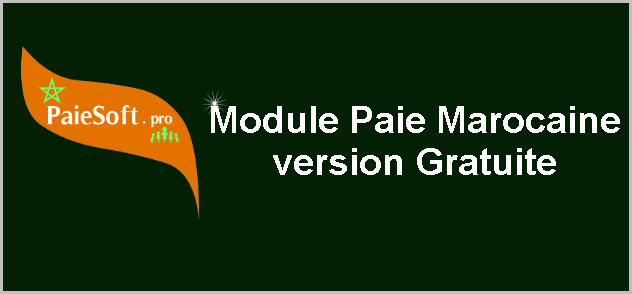
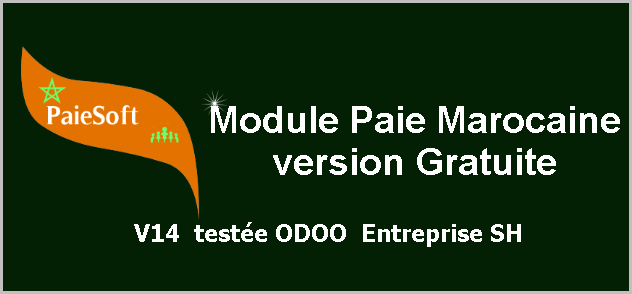
Add files via upload
new files

Changed region(s): [[0.2104, 0.7653, 0.8418, 0.8265], [0.2405, 0.3673, 0.2706, 0.4286]]

diff --git a/l10n_ma_hr_payroll_10Basic/static/description/index.html b/l10n_ma_hr_payroll_10Basic/static/description/index.html
@@ -1,7 +1,7 @@
 <section class="oe_container">
     <div class="oe_row oe_spaced">
         <h2 class="oe_slogan">Paie Maroc: Traitement de la paie marocaine sous Odoo </h2>
-        <h3 class="oe_slogan">Solution compl&eacute;te avec les etats de t&eacute;l&eacute;d&eacute;clarations </h3>
+        <h3 class="oe_slogan">Solution complète avec les états de télédéclarations - CNSS - CIMR - ETAT9421</h3>
         <div class="oe_span6">
             <div class="oe_bg_img">
                 <img class="oe_picture oe_screenshot" src="Image1.jpg">
@@ -14,10 +14,13 @@
         </div>
         <div class="oe_span6">
             <p class='oe_mt32'>
-La version pro de ce module est bien &eacute;labor&eacute;e avec un bulletion de paie top design et  les taux CNSS et IGR sont modifiables au niveau de la vue entreprise. 
+La version pro de ce module est bien élaborée avec un bulletin conforme et  les taux CNSS et IGR sont modifiables au niveau de la vue entreprise. 
             </p>
 			<div class="oe_bg_img">
                 <img class="oe_picture oe_screenshot" src="Image21.jpg">
+            </div>
+			 <div class="oe_bg_img">
+                <img class="oe_picture oe_screenshot" src="indemnite.jpg">
             </div>
         </div>
     </div>
@@ -28,19 +31,30 @@ La version pro de ce module est bien &eacute;labor&eacute;e avec un bulletion de
         <h2 class="oe_slogan">Digitalisez votre paie</h2>
         <div class="oe_span6">
             <p class='oe_mt32'>
-             <li>Bulletin de paie imprim&eacute;s ou par email</li>
-			 <li>D&eacute;claration CNSS mensuelle</li>
-			 <li>Etat 9421 en format XML diretement t&eacute;l&eacute;charg&eacute; sans passer par un fichier excel et une moulinette.</li>
+             <li>Bulletin de paie imprimé ou bien envoyé  par émail en format pdf</li>
+			 <li>Déclaration CNSS mensuelle _ Damancom (format text) </li>
+			 <li>Déclaration CIMR trimestrielle (format text) </li>			 
+			 <li>Etat 9421 en format XML directement téléchargeable  sans passer par un fichier Excel et une moulinette.</li>
 			 <li>Imprimer directement les certificats,attestations et contrats de travail (CDD,CDI,STAGE) </li>
-			 <li>Indemnit&eacute;s  exon&eacute;r&eacute;es et primes taxables bien exliqu&eacute;es et modifiables au niveau du contrat</li>
+			 <li>Indemnités  taxables  et primes non taxables bien expliquées et modifiables au niveau du contrat</li>
 			 <li></li>
-			 Le tout en un clic avec signature digitale.
+			 Le tout en un clic avec signature digitale si vous le souhaitez.
             </p>
         </div>
         <div class="oe_span6">
-            <div class="oe_bg_img">
-                <img class="oe_picture oe_screenshot" src="Image3.jpg">
+			 <div class="oe_bg_img">
+                <img class="oe_picture oe_screenshot" src="cnss.jpg">
             </div>
+            <div class="oe_bg_img">
+                <img class="oe_picture oe_screenshot" src="cnss2.jpg">
+            </div>
+			 <div class="oe_bg_img">
+                <img class="oe_picture oe_screenshot" src="cimr.jpg">
+            </div>
+						 <div class="oe_bg_img">
+                <img class="oe_picture oe_screenshot" src="etat9421.jpg">
+            </div>
+			
         </div>
     </div>
 </section>
@@ -82,7 +96,7 @@ La version pro de ce module est bien &eacute;labor&eacute;e avec un bulletion de
         </div>
         <div class="oe_span6">
             <div class="oe_bg_img">
-                <img class="oe_picture oe_screenshot" src="Image12.jpg">
+                <img class="oe_picture oe_screenshot" src="indemnite.jpg">
             </div>
         </div>
     </div>
@@ -96,14 +110,13 @@ La version pro de ce module est bien &eacute;labor&eacute;e avec un bulletion de
               
 			  <li> Tableaux crois&eacute; pour bien analyser votre paie</li>
 			  <li> T&eacute;l&eacute;charger de votre tableau en format excel</li>
-			  <li> Etat pour d&eacute;claration cnss mensuelle</li>
-			  <li> Etat 9421 t&eacute;l&eacute;chargeable directement en format xml</li>
+
 		
             </p>
         </div>
         <div class="oe_span6">
             <div class="oe_bg_img">
-                <img class="oe_picture oe_screenshot" src="Image3.jpg">
+                <img class="oe_picture oe_screenshot" src="apps.jpg">
             </div>
         </div>
 		        <div class="oe_span6">
@@ -132,12 +145,12 @@ La version pro de ce module est bien &eacute;labor&eacute;e avec un bulletion de
 	
     	<h3 class="oe_slogan">Visitez note site web pour tout information suppl&eacute;mentaire</h3>
     	
-		<h3 class='oe_slogan'>En cas de besoin de modules  sp&eacute;cifiques concernant la paie marocaine ou d'autres pays , pri&egrave;re de nous contacter via notre website</h3>
+		<h3 class='oe_slogan'>En cas de besoin de modules  sp&eacute;cifiques concernant la paie marocaine ou d'autres pays , pri&egrave;re de nous contacter via notre site web </h3>
 		
-		<h3 class='oe_slogan'>Notre module de paie sous odoo est aussi disponible pour les pays suivants: Mali,S&eacute;n&eacute;gal,Mauritanie,Gabon,et autres ...</h3>
+		<h3 class='oe_slogan'>Notre module de paie sous odoo est aussi disponible pour les pays suivants: Mali,S&eacute;n&eacute;gal,Mauritanie,Gabon,Côte d'Ivoire et autres ...</h3>
         <br/><br/>
-        <a href="http://paiesoft.pro" target="_blank" class="oe_button oe_medium oe_highlight">Visitez notre site</a>
-        <a href="http://paiesoft.pro/contact/" target="_blank" class="oe_button oe_medium oe_highlight">Contactez-nous</a>
+        <a href="https://paieafricaine.online"  class="oe_button oe_medium oe_highlight">Visitez notre site</a>
+        <a href="https://paieafricaine.online/contact.html"  class="oe_button oe_medium oe_highlight">Contactez-nous</a>
     </div>
 </section>
 
